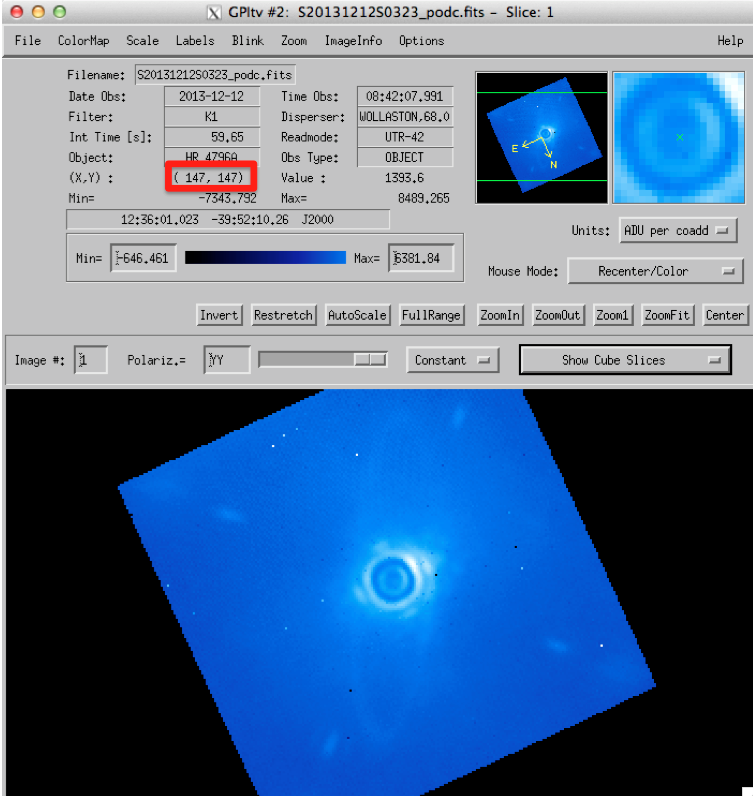
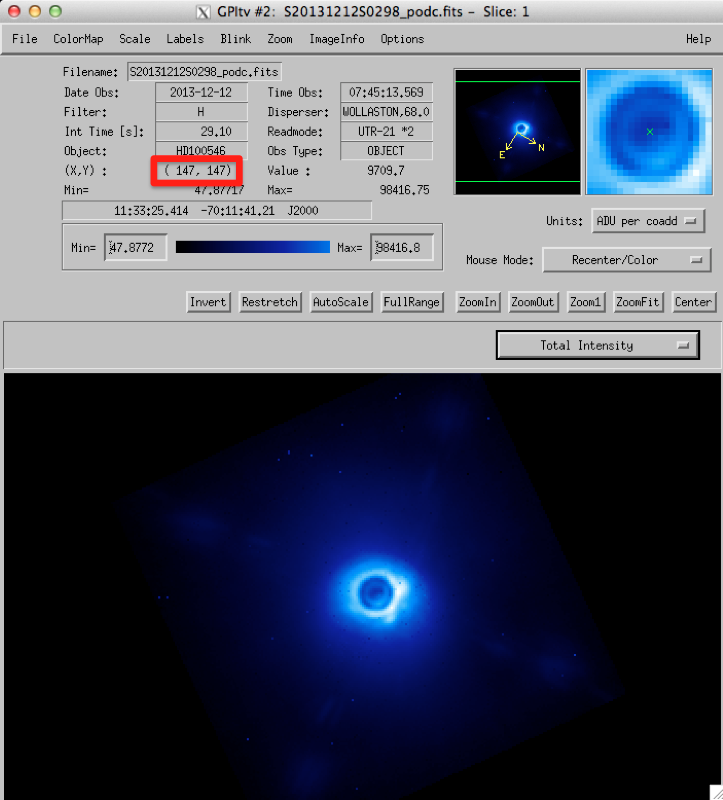
Updated pol tutorial with HD100546 rather than HR4796A

diff --git a/documentation/usage/tutorial_pol.rst b/documentation/usage/tutorial_pol.rst
@@ -17,8 +17,8 @@ The directory contains a number of different GPI file types:
 	* Dark File - S20130912S0017-dark.fits
 	* Bad Pixel Map - S20131208S0020_badpix.fits
 	* Microphonics Model -  S20131117S0172_microModel.fits
-	* GCAL K1 Flat - S20131212S0043.fits to S20131212S0045.fits 
-	* Science Images - S20131212S0320.fits to S20131212S0323.fits
+	* GCAL H Flat - S20131212S0022.fits to S20131212S0024.fits 
+	* Science Images - S20131212S0295.fits to S20131212S0298.fits
 
 Download these files and place both the bad pixel map and dark file into your GPI calibrations folder. Open the GPI Data Pipeline and in the GPI DRP Status Console window click the **RESCAN CAL DB** button. This registers your new files in the calibration file database, and will allow the pipeline to find them automatically. If you do not do this step you will run into errors. 
 
@@ -29,7 +29,7 @@ Download these files and place both the bad pixel map and dark file into your GP
 Making a Polarization Spot Calibration File
 ============================================================
 In GPI's polarization mode each lenslet creates a pair of spots on the detector plane: one for each orthogonal polarization state. A polarization spot calibration file tells the data pipeline where to find the two spots corresponding to each lenslet. Creating a polarization spot calibration file is done in much the same way as a wavelength calibration file for spectral mode. 
-	1. Open the recipe editor and press the Add Files button. Select flat files taken in the same GPI filter band as your science data. In the tutorial data set select files **S20131212S0043.fits to S20131212S0045.fits**. 
+	1. Open the recipe editor and press the Add Files button. Select flat files taken in the same GPI filter band as your science data. In the tutorial data set select files **S20131212S0022.fits to S20131212S0024.fits**. 
 	2. In the Recipe Editor, from the drop down menus on the right select **Reduction Category -> Calibrations** and then **Recipe Template -> Calibrate Polarization Spot Locations - Parallel**. By selecting the Parallel option by default the pipeline tries to spread the computation across 4 threads. If for some reason you'd rather limit the process to one thread can can choose Calibrate Polarization Spot Locations. 
 	3. Press Save Recipe and Queue. This process should take a few minutes, depending on your machine and whether or not you chose the parallel option. 
 	4. Once this is complete it's a good idea to double check that your spot calibration file is doing what it should. Open GPItv and open the raw data file. From the **Labels** menu select **Labels -> Get Wavcal/Polcal from CalDB**. Now select **Labels-> Plot Wavecal/Polcal Grid**. 
@@ -56,7 +56,7 @@ In GPI's polarization mode each lenslet creates a pair of spots on the detector 
 
 	   The green line indicates a polarization spot pair from the same lenslet. 
 
-	5. To check that the spots have been matched correctly look for a low throughput lenslet. In K1, one can be found roughly at [1915,1339] detector coordinates. The two dim spots should be connected with a green line: 
+	5. To check that the spots have been matched correctly look for a low throughput lenslet. One can be found at roughly [1915,1339] detector coordinates. The two dim spots should be connected with a green line: 
 
 		.. image:: low_throughput_polcal.png
 			:scale: 75%
@@ -71,9 +71,9 @@ Creating Polarization Data Cubes (podc files)
 ============================================================
 This step will walk through how to create polarization data cube from raw data. A polarization cube is a 3D data cube, where the third dimension holds two slices: one for each polarization orthogonal state measured at the detector plane. 
 
-	1. In the Recipe Editor press the Add Files button and choose your Data Files. For the tutorial dataset this will be files **S2013S0320.fits to S2013S0323.fits**.
+	1. In the Recipe Editor press the Add Files button and choose your Data Files. For the tutorial dataset this will be files **S20131212S0295.fits to S20131212S0298.fits**.
 	2. Select **Reduction Category-> PolarimetricScience** and **Recipe Template -> Simple Polarization Datacube Extraction**.
-	3. Because of flexure effects internal to GPI it is possible that your Pol Spot Calibration files will not properly reflect the locations of the Polarization spots in your science frame. To check this open GPItv and open one of your raw science images. Plot the Polcal spot locations as we did in Step 4 of creating our wavecal.   
+	3. Because of flexure effects internal to GPI it is possible that your Pol Spot Calibration files will not properly reflect the locations of the Polarization spots in your science frame. To check this open GPItv and open one of your raw science images. Plot the Polcal spot locations as we did in Step 4 of creating our wavecal.  
 
 	   If there are flexure effects present then you will see the spot calibration misaligned from the spot centers: 
 
@@ -81,7 +81,7 @@ This step will walk through how to create polarization data cube from raw data. 
 			:scale: 75%
 			:align: center
 
-	   At this point you should estimate (by eye) the offset [dx,dy] between the spot calibration and the centres of the pol spots. It should be on the order of 1 pixel or less. In the most extreme cases you might have offsets of up to 3 pixels. For the tutorial dataset the offsets are approximately [dx,dy]=[-0.9,0.6]. 
+	   At this point you should estimate (by eye) the offset [dx,dy] between the spot calibration and the centres of the pol spots. It should be on the order of 1 pixel or less. In the most extreme cases you might have offsets of up to 3 pixels. For the tutorial dataset the offsets are approximately [dx,dy]=[-0.5,0.6]. 
 
 	4. Return to the Recipe Editor window, and select the primitive named "Update Spot Shifts for Flexure". Change the Value of the method Parameter  to "manual". Enter your estimated [dx,dy] in the manual_dx and manual_dy Parameters. Don't forget to press ENTER after changing primitive parameter values. 
 
@@ -98,12 +98,12 @@ This step will walk through how to create polarization data cube from raw data. 
 			:scale: 75%
 			:align: center
 
-	   Here you may notice a Moiré pattern in the data. This is typical of K1 data and is an artifact of the extraction procedure. Do not fear, it will get removed later on during the double differencing. 
+	   At this step, depending on your dataset and your observing band, you may notice a Moiré pattern in the data. This is particularly strong in K1 data and is an artifact of the extraction procedure. Do not fear, it will get removed later on during the double differencing. 
 
 Creating Stokes Cubes from Polarization Cubes
 ============================================================
 
-	1. In the Recipe Editor press the Add Files button and select your newly created podc files. A standard polarization sequence has at least four rotations of the half-wave plate, rotating from 0 degrees to 67.5 degrees in 22.5 degree increments, though many observing sequences will have have more. For the tutorial you should add the files named: **S20131212S0320_podc.fits to S20131212S0323_podc.fits**.
+	1. In the Recipe Editor press the Add Files button and select your newly created podc files. A standard polarization sequence has at least four rotations of the half-wave plate, rotating from 0 degrees to 67.5 degrees in 22.5 degree increments, though many observing sequences will have have more. For the tutorial you should add the files named: **S20131212S0295_podc.fits to S20131212S0298_podc.fits**.
 
 	   If you are unsure where they have been saved, the GPI DRP Status Consol provides the path of the last saved file. 
 
